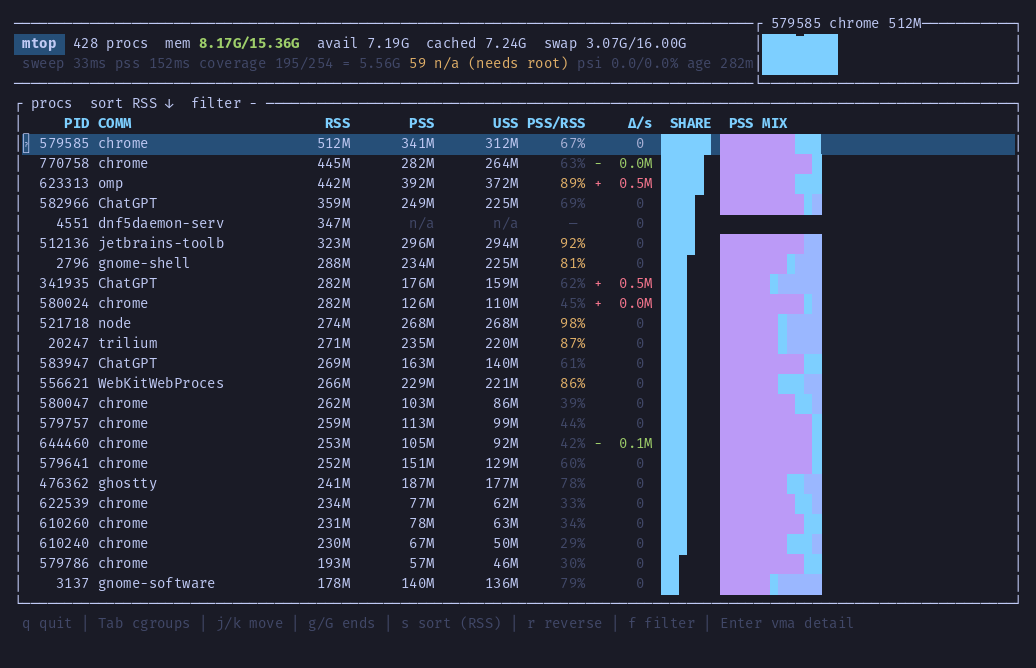
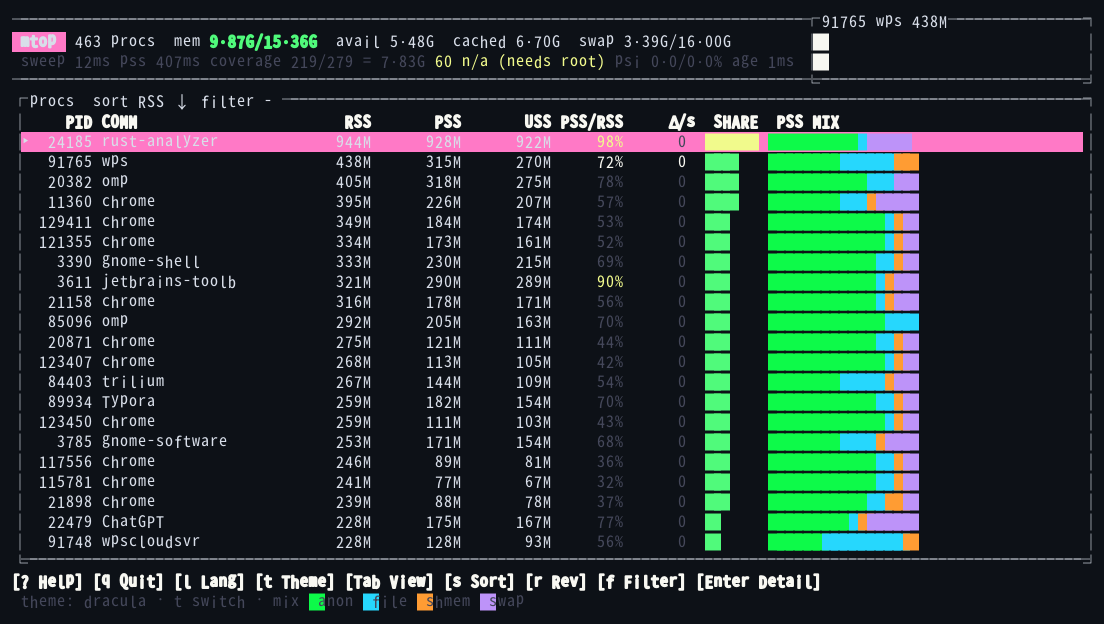
docs: refresh screenshots for the v0.3.0 UI
- regenerate process/detail/cgroups/drill/apps with the command-bar footer
- add English and Chinese help-overlay screenshots
- refresh the demo GIF (process -> help -> apps -> alternate theme)
- document the help/i18n section and the bright theme tiles

Changed region(s): [[0.0, 0.0, 0.9884, 0.9744]]

diff --git a/README.md b/README.md
@@ -86,11 +86,17 @@ mtop --diff a.json b.json --min-delta 50M
 | `Esc` | clear filter, leave detail or drill-down |
 | `q` | quit |
 
+### Help and i18n
+
+![help overlay](docs/images/help.png)
+
+Press `?` for a page-specific explanation of the header, columns, colour codes, markers and keys. `--lang auto|en|zh`, `MTOP_LANG` or `l` switch between English and Chinese; the footer buttons are clickable. Screenshots use the `dracula` theme.
+
 ### Process view
 
 ![process view](docs/images/process.png)
 
-The header reports the sampler's own cost (`sweep`/`pss` ms, PSS coverage, sample age) so partial data is never presented as complete. Rows with `n/a` need privileges; a dimmed `~` marks a cached value older than the freshness window.
+The header reports the sampler's own cost (`sweep`/`pss` ms, PSS coverage, sample age) so partial data is never presented as complete. Rows with `n/a` need privileges; a dimmed `~` marks a cached value older than the freshness window. The footer is a clickable command bar and the PSS mix legend only appears here.
 
 ### VMA detail
 
@@ -110,7 +116,7 @@ Values are hierarchical: a parent already includes its children, so the list sor
 
 ![apps treemap](docs/images/apps.png)
 
-Area is PSS by default; `s` switches to USS (private only) or RSS (which overcounts shared pages, and says so in the title). `Enter` drills into that app's processes.
+Area is PSS by default; `s` switches to USS (private only) or RSS (which overcounts shared pages, and says so in the title). Tiles use the active theme's bright palette, with dark labels; `Enter` drills into that app's processes.
 
 ## Scripting
 

diff --git a/README.zh-CN.md b/README.zh-CN.md
@@ -86,11 +86,17 @@ mtop --diff a.json b.json --min-delta 50M
 | `Esc` | 清除过滤、退出详情或下钻 |
 | `q` | 退出 |
 
+### 帮助与中英文
+
+![帮助面板](docs/images/help-zh.png)
+
+按 `?` 查看当前页面的顶部状态、列含义、颜色、标记和按键说明。`--lang auto|en|zh`、`MTOP_LANG` 或运行时 `l` 切换中英文；footer 按钮均可点击。截图使用 `dracula` 主题。
+
 ### 进程视图
 
 ![进程视图](docs/images/process.png)
 
-表头会报告采样器自身的开销（`sweep`/`pss` 毫秒、PSS 覆盖率、样本年龄），所以不会把部分数据伪装成完整数据。`n/a` 表示需要权限；带 `~` 的暗色值表示缓存已超过新鲜窗口。
+表头会报告采样器自身的开销（`sweep`/`pss` 毫秒、PSS 覆盖率、样本年龄），所以不会把部分数据伪装成完整数据。`n/a` 表示需要权限；带 `~` 的暗色值表示缓存已超过新鲜窗口。footer 是可点击命令栏，PSS 构成图例只在进程视图显示。
 
 ### VMA 详情
 
@@ -110,7 +116,7 @@ mtop --diff a.json b.json --min-delta 50M
 
 ![apps treemap](docs/images/apps.png)
 
-面积默认是 PSS；`s` 切到 USS（只看私有）或 RSS（重复计算共享页，标题会明确写出）。`Enter` 下钻到该应用的进程。
+面积默认是 PSS；`s` 切到 USS（只看私有）或 RSS（重复计算共享页，标题会明确写出）。图块使用当前主题的亮色配深色文字；`Enter` 下钻到该应用的进程。
 
 ## 脚本化
 
